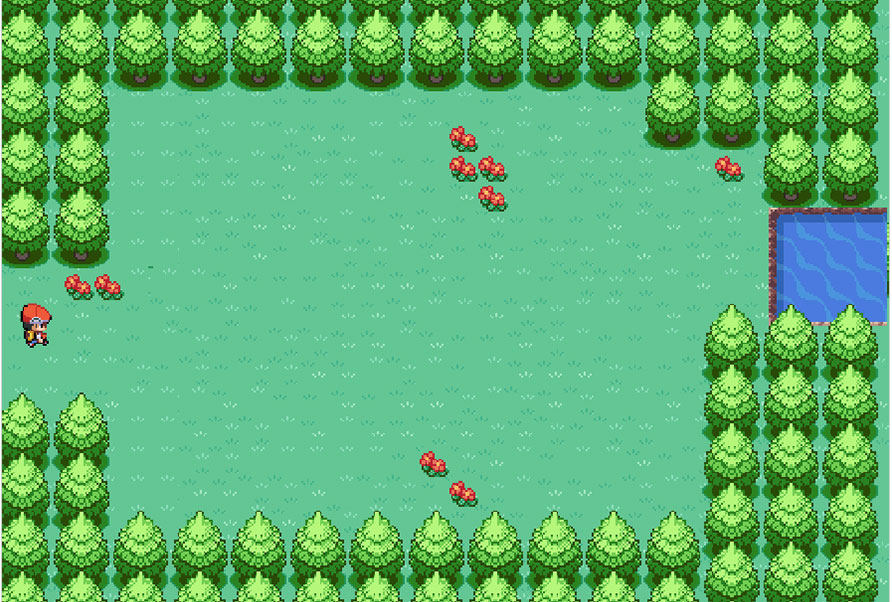
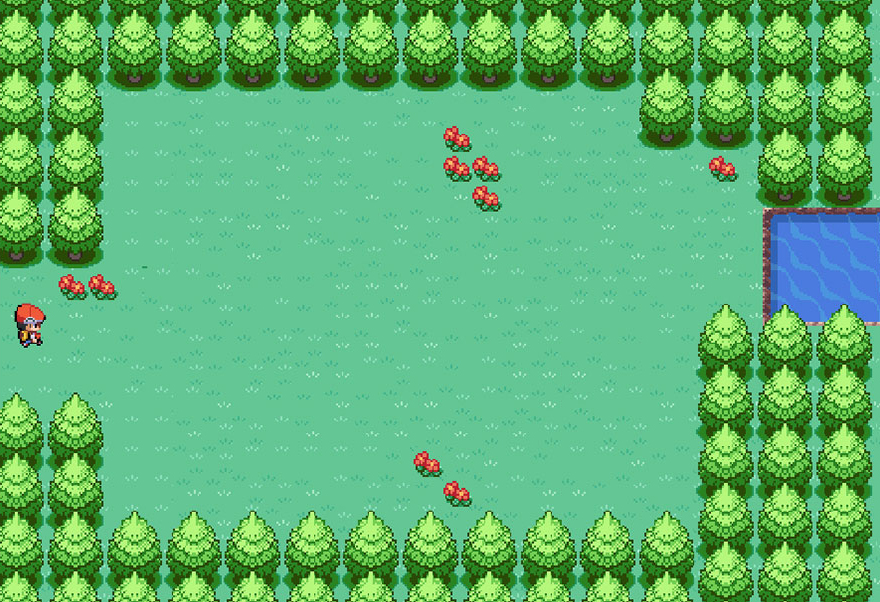
ready for stylez

diff --git a/css/game.css b/css/game.css
@@ -22,11 +22,13 @@ img{
     background-image: url('/images/main-map-bg.jpg');
     background-repeat: no-repeat;
     height: 602px;
-    width: 900px;
+    width: 880px;
     display: flex;  
     justify-content: center; 
     align-items: center;
-    border-radius: 8px;    
+    margin-top: 20px;
+    /* border-radius: 30px 30px; */
+    box-shadow: 0 0 28px rgba(0, 0, 0, 0.329);    
 }
 span {
 margin: 20px
@@ -48,15 +50,15 @@ margin: 20px
 } */
 #root {
     display: flex;
-    background-image: url('/images/gameboy.png');
+    background-image: url('/images/gameboy.png'); 
     background-position: 50%;
     background-repeat: no-repeat;
-    background-size: 85%;
+    /* background-size: 85%; */
     height: 800px;
     align-items: center;
-    justify-content: center
-    
+    justify-content: center;   
 }
+
 #button-area{
     width: 600px;
 }
@@ -67,7 +69,8 @@ margin: 20px
 }
 
 #screen-area {
-    z-index: 8;
+    box-shadow: 5px, 10px, black;
+    
 }
 
 #dialog-area {

diff --git a/game.html b/game.html
@@ -13,7 +13,9 @@
 <body>
     <div id="game-play-area">
       
-        <div id="root"></div>
+        <div id="root">
+            
+        </div>
     </div> 
     <button onclick="mapRefresh()" id="map-refresh">Back To Map</button>
 
@@ -26,7 +28,7 @@
 
     <!-- // game app template -->
     <template id="game-app-template">
-            <p>game app</p>
+        
         <div id="screen-area">
         </div>
         <audio id="map-music" autoplay>
@@ -39,14 +41,14 @@
 
     <!-- screen area template -->
     <template id="screen-area-template">
-            <p>screen area</p>
+        
         <div id="button-area"></div>
     </template>
 
     <!-- screen dialog template -->
     <template id="dialog-area-template">
         <div id="dialogue-box">
-            <p id="dialogue">HEYYYY text</p>
+            <p id="dialogue"></p>
         </div>
     </template> 
 
